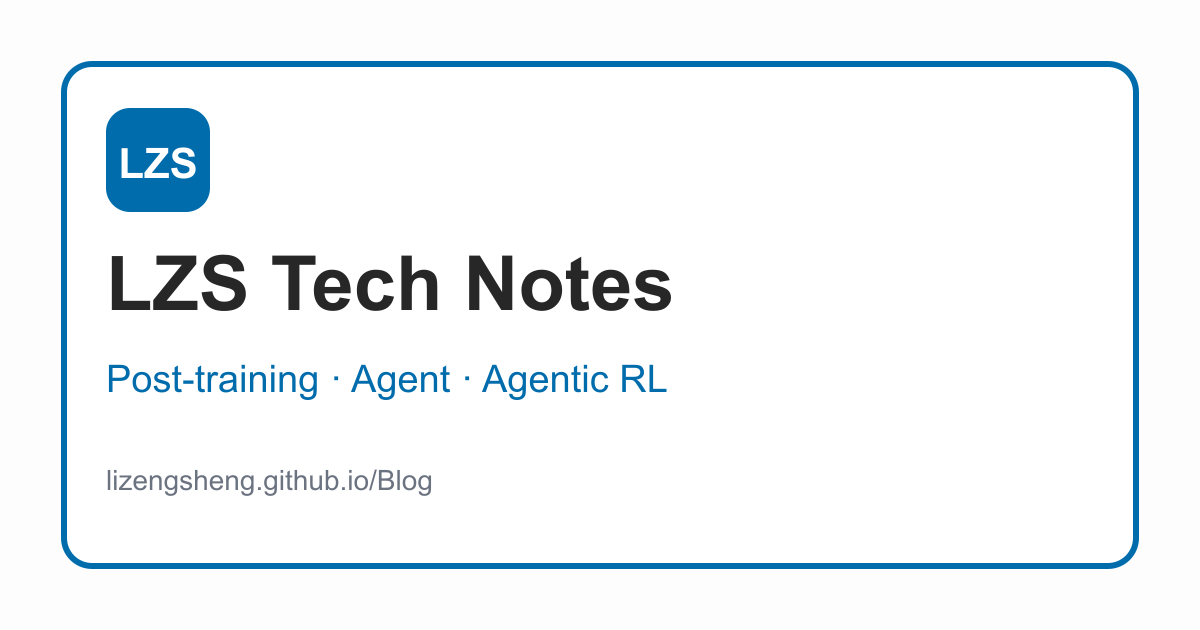
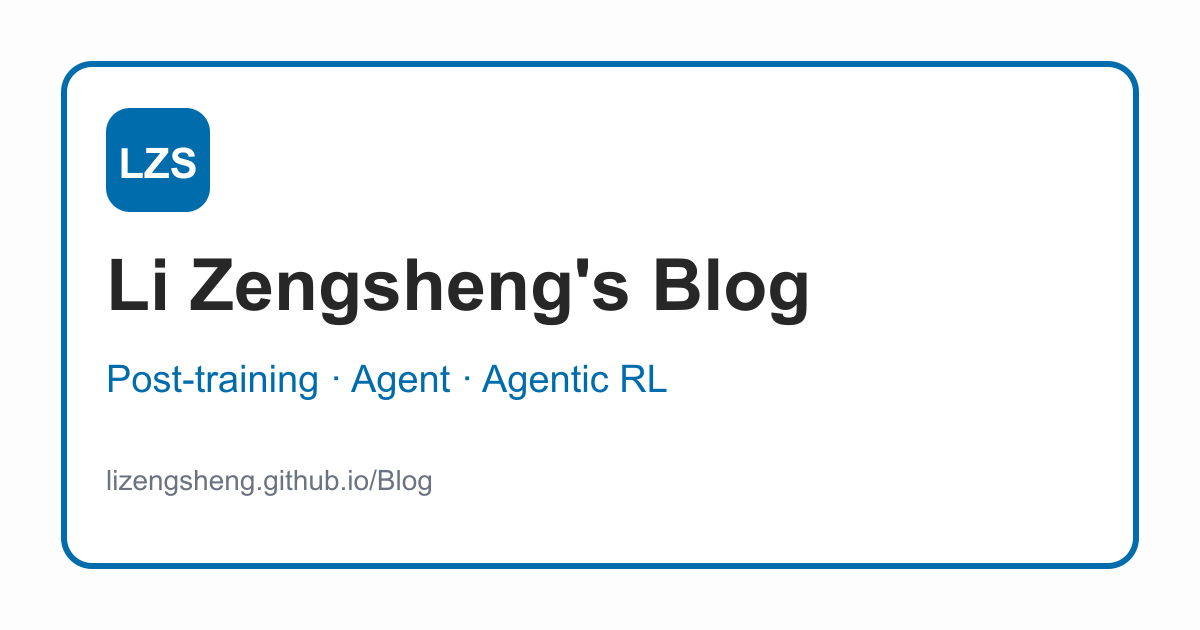
feat: refresh blog branding and publishing guide

Changed region(s): [[0.0925, 0.3921, 0.6783, 0.5127]]

diff --git a/astro-paper.config.ts b/astro-paper.config.ts
@@ -3,10 +3,10 @@ import { defineAstroPaperConfig } from "./src/types/config";
 export default defineAstroPaperConfig({
   site: {
     url: "https://lizengsheng.github.io",
-    title: "李增圣的技术博客",
+    title: "Li Zengsheng's Blog",
     description:
       "聚焦大模型后训练、Agent 与 Agentic RL，记录原理、工程实践与持续学习。",
-    author: "李增圣",
+    author: "Li Zengsheng",
     profile: "https://github.com/lizengsheng",
     ogImage: "default-og.png",
     lang: "zh-CN",
@@ -33,12 +33,12 @@ export default defineAstroPaperConfig({
     {
       name: "github",
       url: "https://github.com/lizengsheng",
-      linkTitle: "访问李增圣的 GitHub",
+      linkTitle: "访问 Li Zengsheng 的 GitHub",
     },
     {
       name: "mail",
       url: "mailto:1910853272@qq.com",
-      linkTitle: "发送邮件给李增圣",
+      linkTitle: "发送邮件给 Li Zengsheng",
     },
   ],
   shareLinks: [

diff --git a/docs/UPDATE-GUIDE.md b/docs/UPDATE-GUIDE.md
@@ -1,0 +1,122 @@
+# 内容更新与 GitHub Pages 部署指南
+
+本文档用于维护 Li Zengsheng 的 Blog。无论是更新文章、首页文案还是链接，都应在本地验证后立即推送到远端 `main`；推送会触发 GitHub Actions，并自动更新 GitHub Pages。
+
+## 1. 更新前同步代码
+
+在 PowerShell 中进入项目目录：
+
+```powershell
+cd C:\Users\19108\Desktop\lizengsheng\Blog
+git switch main
+git pull --ff-only origin main
+git status --short
+pnpm install --frozen-lockfile
+```
+
+如果 `git status --short` 显示了自己尚未提交的修改，先确认这些修改是否需要保留，不要直接覆盖。
+
+## 2. 更新或新增文章
+
+文章位于 `src/content/posts/`。
+
+- 更新文章：直接编辑对应的 `.md` 或 `.mdx` 文件。
+- 新增文章：复制 `src/content/posts/_template.md`，使用稳定的英文文件名作为 URL slug。
+- 写作中：设置 `draft: true`，文章不会出现在生产站点。
+- 正式发布：设置 `draft: false`，并确认 `pubDatetime`、`title`、`description`、`tags` 等信息正确。
+- 图片：放在 `public/assets/` 的合适子目录中，引用路径需要包含站点基路径，例如 `/Blog/assets/posts/example.png`。
+
+不要编辑 `dist/` 或 `public/pagefind/`。它们是构建产物，会由构建流程重新生成。
+
+## 3. 更新前端文案或链接
+
+常用文件如下：
+
+| 内容                         | 文件                          |
+| ---------------------------- | ----------------------------- |
+| 站点标题、作者、GitHub、邮箱 | `astro-paper.config.ts`       |
+| 首页介绍、简历按钮           | `src/pages/index.astro`       |
+| 顶部导航                     | `src/components/Header.astro` |
+| About 内容与项目链接         | `src/content/pages/about.md`  |
+| 中文 UI 词条                 | `src/i18n/lang/zh-CN.ts`      |
+| favicon 与社交预览图         | `public/`                     |
+
+站内地址必须兼容 `/Blog/` 子路径。Astro 组件中优先使用现有的 `getRelativeLocaleUrl` 或 `import.meta.env.BASE_URL`；Markdown 中的站内静态资源使用 `/Blog/...`。外部链接使用完整的 `https://...` 地址。
+
+## 4. 本地预览与验证
+
+先启动开发服务器并手动查看改动：
+
+```powershell
+pnpm dev
+```
+
+浏览器打开 `http://localhost:4321/Blog/`。重点检查桌面端、移动端、深浅主题，以及新增或修改的链接。
+
+提交前运行：
+
+```powershell
+pnpm run format:check
+pnpm run lint
+pnpm run build
+git diff --check
+```
+
+如果格式检查失败，可运行 `pnpm run format`，然后重新检查改动，避免格式化到不相关文件。
+
+## 5. 提交并立即推送
+
+确认修改后，在同一维护批次内提交并推送：
+
+```powershell
+git status --short
+git diff
+git add -A
+git commit -m "docs: update blog content"
+git push origin main
+```
+
+请按实际内容修改提交信息，例如：
+
+- 新文章：`content: publish agent evaluation notes`
+- 页面文案：`feat: refresh homepage introduction`
+- 修复链接：`fix: update paper reference links`
+
+不要只在本地长期保留已经完成的内容更新。`main` 是 GitHub Pages 的发布分支，每次完成且验证通过的本地更新都应及时推送。
+
+## 6. 确认 GitHub Pages 更新成功
+
+推送后查看最新部署：
+
+```powershell
+gh run list --repo lizengsheng/Blog --workflow deploy.yml --limit 3
+gh run watch <运行编号> --repo lizengsheng/Blog --exit-status
+```
+
+部署成功后打开：
+
+- Blog：<https://lizengsheng.github.io/Blog/>
+- Actions：<https://github.com/lizengsheng/Blog/actions/workflows/deploy.yml>
+
+最后巡检线上链接：
+
+```powershell
+pnpm run check:links
+```
+
+巡检结果分为三类：
+
+- `BROKEN INTERNAL`：站内页面、资源或锚点失效，发布前应修复。
+- `BROKEN EXTERNAL`：外部地址明确返回失效状态，需要人工确认后更新或删除。
+- `UNVERIFIABLE`：目标网站返回 403、429、服务端错误或超时，通常是反爬限制；请用浏览器人工打开确认，不要直接当作失效链接删除。
+
+## 7. 部署失败时排查
+
+查看失败步骤和日志：
+
+```powershell
+gh run list --repo lizengsheng/Blog --workflow deploy.yml --limit 5
+gh run view <运行编号> --repo lizengsheng/Blog --log-failed
+```
+
+修复后重新运行本地格式、lint 和构建检查，再提交并推送。不要手工修改线上 `gh-pages` 产物；GitHub Pages 应始终由 `.github/workflows/deploy.yml` 构建和发布。

diff --git a/src/content/pages/about.md b/src/content/pages/about.md
@@ -1,9 +1,9 @@
 ---
 title: "关于我"
-description: "李增圣的教育背景、技术方向与公开学习项目。"
+description: "Li Zengsheng 的教育背景、技术方向与公开学习项目。"
 ---
 
-你好，我是李增圣。目前关注**大模型后训练、Agent 与 Agentic RL**，希望把学习过程沉淀为可以检索、复现和继续迭代的技术内容。
+你好，我是 Li Zengsheng。目前关注**大模型后训练、Agent 与 Agentic RL**，希望把学习过程沉淀为可以检索、复现和继续迭代的技术内容。
 
 这个博客不是一份静态的技能清单。我更希望它能持续回答三个问题：我正在研究什么、我如何理解复杂系统、以及这些理解如何转化为可验证的工程实践。
 
@@ -27,7 +27,7 @@ description: "李增圣的教育背景、技术方向与公开学习项目。"
 
 ## 联系方式
 
-- 在线简历：[查看李增圣的在线简历](https://lizengsheng.github.io/Resume/)
+- 在线简历：[查看 Li Zengsheng 的在线简历](https://lizengsheng.github.io/Resume/)
 - GitHub：[@lizengsheng](https://github.com/lizengsheng)
 - 邮箱：[1910853272@qq.com](mailto:1910853272@qq.com)
 

diff --git a/memory-bank/progress.md b/memory-bank/progress.md
@@ -42,3 +42,10 @@
 - 将 GitHub Pages Source 设置为 GitHub Actions，正式地址为 `https://lizengsheng.github.io/Blog/`。
 - Pages 生产构建与部署成功；线上主页、文章、About、搜索、RSS、站点地图、favicon 和 Pagefind 资源均返回 200。
 - 在线 Pagefind 使用 `Agentic RL` 查询可返回正确文章，首页 canonical、中文标题和在线简历链接均正确。
+
+## 2026-08-19：品牌命名与维护流程
+
+- 将站点标题、作者、首页、About、无障碍文本与项目文档中的姓名统一为 `Li Zengsheng`，站点名称统一为 `Li Zengsheng's Blog`。
+- 更新静态社交预览图，保留 LZS 标识并使用新的 Blog 名称。
+- 新增内容更新与部署指南，明确文章、前端页面和链接的修改、验证、提交、推送与 Pages 确认流程。
+- 新增线上链接巡检脚本，可检查站内页面、资源、锚点和外部 HTTP(S) 链接，并将反爬限制与明确失效分开报告。

diff --git a/README.md b/README.md
@@ -1,6 +1,6 @@
-# 李增圣的技术博客
+# Li Zengsheng’s Blog
 
-基于 [AstroPaper](https://github.com/satnaing/astro-paper) 构建的中文技术博客，聚焦大模型后训练、Agent 与 Agentic RL。
+基于 [AstroPaper](https://github.com/satnaing/astro-paper) 构建的 Blog，聚焦大模型后训练、Agent 与 Agentic RL。
 
 - 线上地址：<https://lizengsheng.github.io/Blog/>
 - 默认语言：简体中文
@@ -48,7 +48,7 @@ pnpm preview
 
 ## 项目文档
 
-设计、技术栈、实施批次与进度记录位于 `memory-bank/`。后续维护前请先阅读 `AGENTS.md`。
+详细的文章、页面、链接更新与 GitHub Pages 发布流程见 [内容更新与部署指南](docs/UPDATE-GUIDE.md)。设计、技术栈、实施批次与进度记录位于 `memory-bank/`。后续维护前请先阅读 `AGENTS.md`。
 
 ## 致谢与许可
 

diff --git a/memory-bank/architecture.md b/memory-bank/architecture.md
@@ -9,5 +9,7 @@
 - `src/styles/`：主题、中文字体栈和 Markdown 正文排版。
 - `public/`：favicon 与静态社交预览图。
 - `scripts/copy-pagefind.mjs`：生产构建后将 Pagefind 资源复制到 `public/pagefind`，兼容 Windows 和 CI。
+- `scripts/check-live-links.mjs`：从线上首页抓取并检查站内页面、资源、锚点与外部 HTTP(S) 链接。
+- `docs/UPDATE-GUIDE.md`：文章、页面和链接的本地更新、验证、推送与 Pages 发布流程。
 - `.github/workflows/`：PR 质量检查和 GitHub Pages 部署。
 - `memory-bank/`：设计、技术栈、计划、架构索引与进度记录。

diff --git a/memory-bank/design-document.md b/memory-bank/design-document.md
@@ -2,7 +2,7 @@
 
 ## 产品目标
 
-为大模型相关岗位招聘者和技术同行提供一个中文内容中心，以公开文章和学习仓库证明李增圣在大模型后训练、Agent 与 Agentic RL 方向的技术理解和持续学习能力。
+为大模型相关岗位招聘者和技术同行提供一个内容中心，以公开文章和学习仓库展现 Li Zengsheng 在大模型后训练、Agent 与 Agentic RL 方向的技术理解和持续学习能力。
 
 ## 范围与非目标
 

diff --git a/AGENTS.md b/AGENTS.md
@@ -1,6 +1,6 @@
 # 项目协作约定
 
-本仓库是李增圣的中文技术博客，基于 AstroPaper 构建并部署到 GitHub Pages 项目子路径 `/Blog/`。
+本仓库是 Li Zengsheng 的 Blog，基于 AstroPaper 构建并部署到 GitHub Pages 项目子路径 `/Blog/`。
 
 ## 开发约定
 
